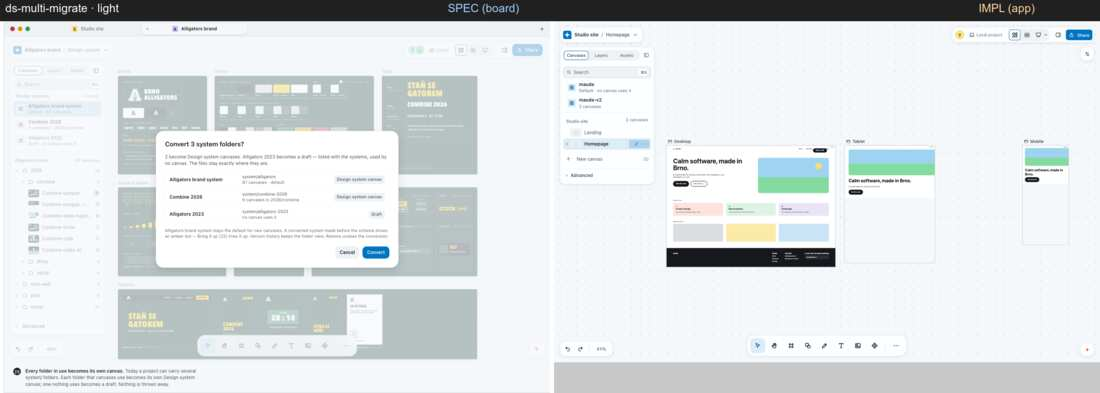
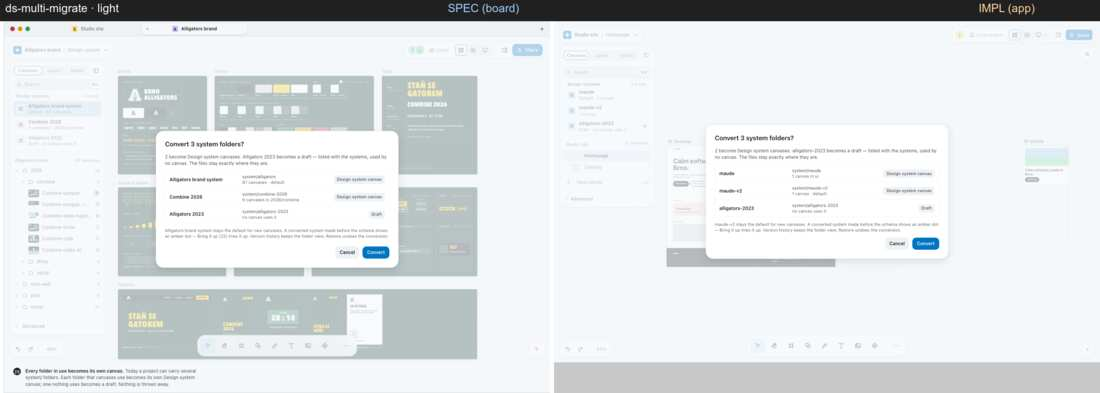
P8-c7-ds3: re-shot ds-edit-colour, -reach, ds-edge-contrast, -migrate, ds-multi-migrate, ds-advanced (light + dark); fix-c7-ds3.md, harness deltas, INDEX

diff --git a/.ai/plans/notes/v2-evidence/phase8-fidelity/13-design-system/fix-c7-ds3.md b/.ai/plans/notes/v2-evidence/phase8-fidelity/13-design-system/fix-c7-ds3.md
@@ -1,0 +1,30 @@
+# Phase 8 stage C round 7, third pass — 13 Design system (branch p8-c7-ds3)
+
+Nothing below is marked matched; the lead's critic judges. Re-shot (impl, light + dark) with `.scr/chain-c7ds3.sh` (`_c7ds3-harness-g5/`).
+
+## Done (product)
+
+| what | ids | proof (red → green) |
+|---|---|---|
+| **Contrast line in the board's words.** Pass: "5.6:1 on white · 4.8:1 on the dark page" (one ratio per mode, the surface it was judged on: near-white reads white, the page in Dark reads the dark page, else the token's name). Fail: "3.1:1 on A and B" — the two worst surfaces of the mode being edited; " in Dark" only when the OTHER mode is what falls short (`contrastLine(model, css, edited, editing)`). | ds-edit-colour, ds-edge-contrast, ds-edit-reach | `p8-c7-ds3-contrast-words.test.ts` (new; red on the missing export, and on the mode-being-edited rule when reverted), `v2-ds-token-kind`, `v2-ds-edges` |
+| **Role row** above a contrast warning ("Text on surfaces — hints", "Fill behind accent text"; `roleWords`, read from the pairs rule). | ds-edge-contrast | `v2-ds-edges.test.tsx` |
+| **Token inspector row order per the board**: the row of the mode being edited, the picker under it, the other mode last. | ds-edit-colour, ds-edge-contrast | `v2-ds-token-kind.test.tsx` |
+| **Selection ring** on a swatch / master: 2 px, 4 px clear of it (`canvas-shell.tsx` HALO_CSS `[data-ring]`; shared file, own commit). | ds-edit-colour, ds-edge-contrast | `p8-c7-ds3-swatch-ring.test.ts` (source pin) |
+| **Reach view**: header "Accent went from Azure to Deeper azure on the Design system canvas. “Used in N canvases › Show” draws where it goes …", key line "Colour › Accent", the change in words, the inspector's contrast line, bottom note with the board's title. | ds-edit-reach | `v2-ds-reach-view.test.tsx` |
+| **Advanced**: the fold is open, "Used by · Studio site · N canvases" (project from the shell's scope), the check card closes the column after the history (board order), the tokens view starts at `:root` (a long file header is one line, `abbreviateCss`). | ds-advanced | `v2-ds-advanced.test.tsx`, `ds-check-system.test.ts` |
+| New testids: `ds-reach-key`, `ds-reach-contrast`, `ds-token-role` (TESTIDS.md + testids.json). | | |
+
+## Harness (not product)
+
+- **ds-multi-migrate / ds-edge-migrate were harness gaps**: the product's convert sheet (`convert-dialog.jsx`, 3-folder list and one-folder section map) was never opened. Group `g`: three old folders (two followed by a canvas, one used by none → draft), group `k`: a single unconverted folder; both open the sheet through the `maude:ds-convert` event.
+- ds-edge-contrast edits **Fg 1** ("Used in 2 canvases") in Dark — the old Fg 2 is used by no canvas, so "Falls short in N canvases · Show" could not draw.
+- ds-advanced: viewport 1440×1500 so the whole column shows, Check the system is run.
+- ds-edit-reach: waits 9 s for the canvases' frames.
+
+## Open (by priority)
+
+1. **Reach view: the system's own Patterns frame** (board: "Patterns — on the Design system canvas · 4 patterns · 21 places" first, then the canvases) — needs the usage index to count the board's own artboards; the view draws canvases only.
+2. **Reach token card**: the Light | Dark halves on the chip (board) — the card draws two plain chips.
+3. **Pass line surface words** ("on the dark page") — only `--bg-0` partners read that; a token whose pair is its own text (Accent ↔ Accent fg) reads "on white · on white" (both modes' text is white). The board's wording belongs to an Accent-on-page reading the pairs rule does not have.
+4. **Advanced**: the inspector is 250 px wide, so the file tree / code wrap where the board's 420 px column does not; version history has the fixture's one row.
+5. Per the earlier list: Preview in… in the multi-system menu (lead call), hero outside the Brand frame, review sub-lines.

diff --git a/.ai/plans/notes/v2-evidence/phase8-fidelity/13-design-system/INDEX.md b/.ai/plans/notes/v2-evidence/phase8-fidelity/13-design-system/INDEX.md
@@ -406,3 +406,22 @@ Re-shot light + dark (pairs overwritten, harness `.scr/chain-c7.sh` = `_d4-harne
 | `ds-multi-menu` | dark | re-shot | same |
 
 Harness `.scr/chain-c7ds2.sh` + `chain-c7ds2b.sh` (the round-7 harness + `frameColour()` and the non-default menu row). Nothing judged. Details: `fix-c7-ds.md` § Round 7 continuation.
+
+## After (round 7 third pass, p8-c7-ds3) — IMPL re-shot on the p8-c7-ds3 tip
+
+| id | theme | impl | note |
+|---|---|---|---|
+| `ds-edit-colour` | light | re-shot | contrast line in the board's words ("4.8:1 on white · …"); the edited mode's row first, the picker under it, the other mode last; the ring is 2 px, 4 px clear |
+| `ds-edit-colour` | dark | re-shot | same |
+| `ds-edit-reach` | light | re-shot | header, "Colour › Accent" key, the contrast line and the note per the board; the frames wait for their canvases |
+| `ds-edit-reach` | dark | re-shot | same |
+| `ds-edge-contrast` | light | re-shot | a token the canvases use (Fg 1), edited in Dark: "N:1 on A and B" (two surfaces, the mode being edited), Role row, "Falls short in 2 canvases · Show" |
+| `ds-edge-contrast` | dark | re-shot | same |
+| `ds-multi-migrate` | light | re-shot | the "Convert 3 system folders?" sheet is OPEN (harness: three old folders, two in use, one draft; the ds.convert event) |
+| `ds-multi-migrate` | dark | re-shot | same |
+| `ds-edge-migrate` | light | re-shot | the one-folder sheet with the per-section map (harness: a single unconverted folder) |
+| `ds-edge-migrate` | dark | re-shot | same |
+| `ds-advanced` | light | re-shot | Advanced open (CSS \| JSON, tokens from `:root`, Files, Hand off), "Studio site · N canvases", Check run, the check card closes the column; 1440×1500 viewport so the whole column shows |
+| `ds-advanced` | dark | re-shot | same |
+
+Harness `.scr/chain-c7ds3.sh` (`_c7-harness-g5` + the `_c7ds3-harness-g5` deltas; s13 groups a f b g k). Nothing judged. Details: `fix-c7-ds3.md`.
